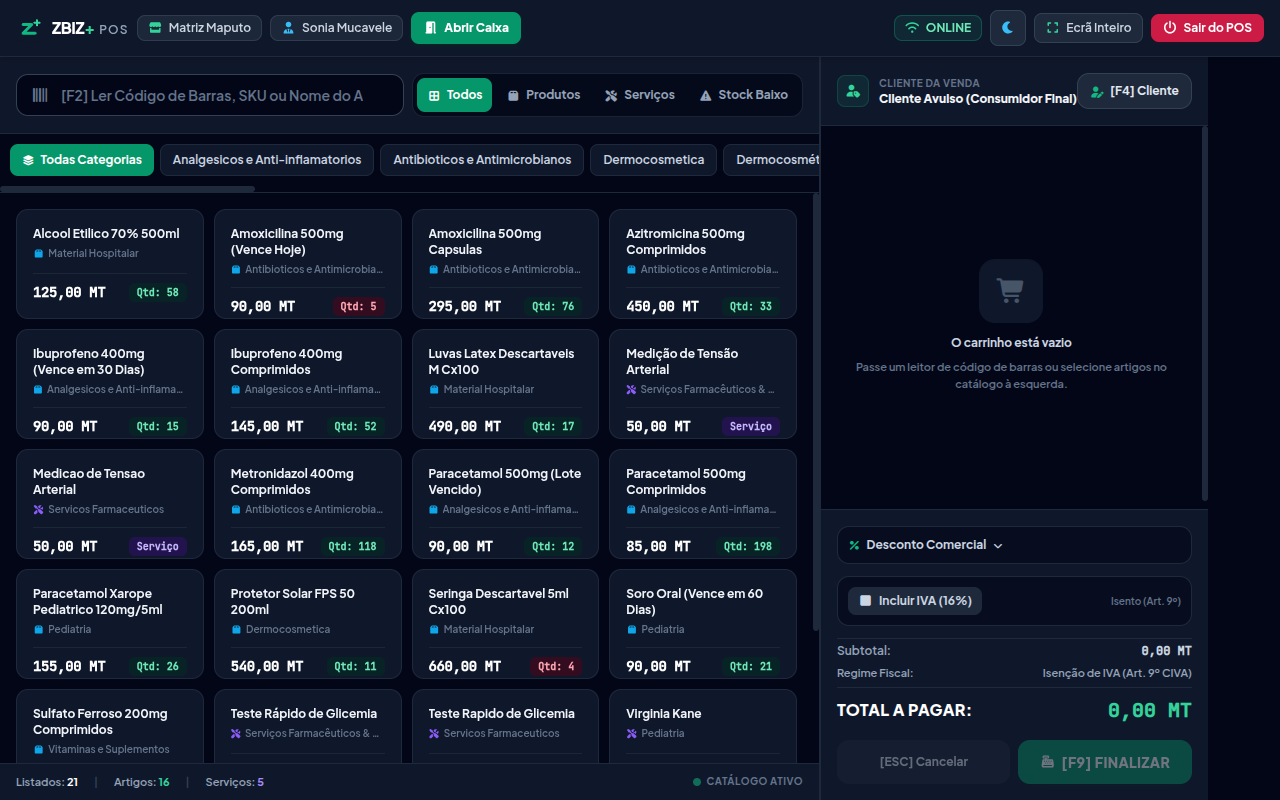
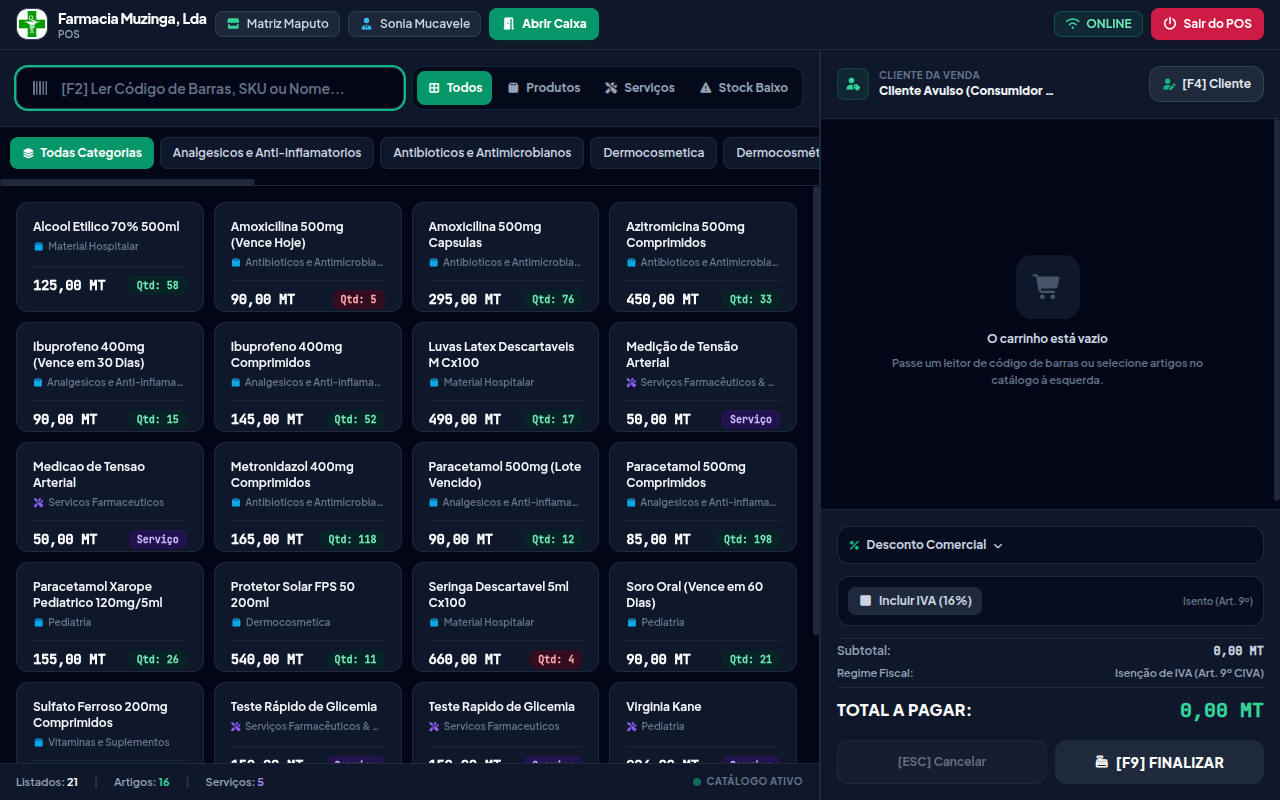
fix(pos): limpar header, integrar fallback de marca do tenant e aperfeicoar ergonomia mobile e carrinho

diff --git a/resources/views/pos/partials/header.blade.php b/resources/views/pos/partials/header.blade.php
@@ -1,12 +1,14 @@
-<header class="bg-slate-900 border-b border-slate-800 text-white px-3 sm:px-4 py-2.5 flex items-center justify-between shadow-md shrink-0 select-none z-30">
+<header class="bg-slate-900 border-b border-slate-800 text-white px-3 sm:px-4 py-2 flex items-center justify-between gap-2 shadow-md shrink-0 select-none z-30">
     {{-- Left: Brand & Operator Context --}}
     <div class="flex items-center gap-2 sm:gap-3 flex-wrap min-w-0">
-        <a href="{{ route('dashboard.index') }}" class="flex items-center gap-2 group transition" title="Ir para o Painel Principal">
-            <x-brand.logo size="sm" variant="icon" />
-            <span class="text-base font-black tracking-tight text-white font-heading">
-                ZBIZ<span class="text-emerald-400">+</span>
-                <span class="text-xs font-semibold text-slate-400 uppercase tracking-widest ml-0.5">POS</span>
-            </span>
+        <a href="{{ route('dashboard.index') }}" class="flex items-center gap-2 group transition shrink-0" title="Ir para o Painel Principal">
+            <x-brand.tenant-logo
+                :src="$theme['logo_url'] ?? current_tenant()?->logo_url"
+                :name="current_tenant()?->name"
+                size="sm"
+                :show-name="true"
+                subtitle="POS"
+            />
         </a>
 
         <div class="hidden md:flex items-center gap-2 text-xs">
@@ -22,7 +24,7 @@
 
         {{-- Turno de Caixa Badge & Ações --}}
         <template x-if="shift">
-            <div class="flex items-center gap-1.5">
+            <div class="flex items-center gap-1.5 shrink-0">
                 <span class="bg-emerald-500/15 text-emerald-300 border border-emerald-500/30 text-xs px-2.5 py-1 rounded-lg font-bold flex items-center gap-1.5 shadow-sm">
                     <span class="w-2 h-2 rounded-full bg-emerald-400 animate-ping"></span>
                     <span>Turno #<span x-text="shift.id"></span> (<span x-text="shift.opened_at"></span>)</span>
@@ -40,14 +42,14 @@
             <button @click.stop="openOpenShiftModal()"
                     type="button"
                     aria-label="Abrir novo turno de caixa"
-                    class="bg-emerald-600 hover:bg-emerald-500 text-white text-xs font-black px-3 py-1.5 rounded-lg transition flex items-center gap-1.5 shadow-md shadow-emerald-950/40 active:scale-95 cursor-pointer min-h-[32px]">
+                    class="bg-emerald-600 hover:bg-emerald-500 text-white text-xs font-black px-3 py-1.5 rounded-lg transition flex items-center gap-1.5 shadow-md shadow-emerald-950/40 active:scale-95 cursor-pointer min-h-[32px] shrink-0">
                 <i class="fa-solid fa-door-open"></i>
                 <span>Abrir Caixa</span>
             </button>
         </template>
     </div>
 
-    {{-- Right: Status Indicators & Utility Controls --}}
+    {{-- Right: Status Indicators & Sair do POS --}}
     <div class="flex items-center gap-2 sm:gap-3 shrink-0">
         {{-- Network Status & Offline Queue Pill --}}
         <div class="flex items-center gap-1.5 text-xs">
@@ -60,38 +62,19 @@
             <template x-if="offlineQueue.length > 0">
                 <button @click="syncOffline()"
                         type="button"
-                        class="bg-amber-500 hover:bg-amber-400 text-slate-950 px-2.5 py-1 rounded-lg font-black text-xs flex items-center gap-1.5 shadow cursor-pointer active:scale-95">
+                        class="bg-amber-500 hover:bg-amber-400 text-slate-950 px-2.5 py-1 rounded-lg font-black text-xs flex items-center gap-1.5 shadow cursor-pointer active:scale-95 min-h-[32px]">
                     <i class="fa-solid fa-rotate" :class="isSyncing ? 'animate-spin' : ''"></i>
                     <span>Sync (<span x-text="offlineQueue.length"></span>)</span>
                 </button>
             </template>
         </div>
 
-        {{-- Theme Switcher (Claro / Escuro) --}}
-        <button type="button"
-                @click="toggleTheme()"
-                aria-label="Alternar tema claro e escuro"
-                class="w-9 h-9 flex items-center justify-center rounded-lg bg-slate-800 hover:bg-slate-700 text-slate-300 hover:text-white border border-slate-700 transition cursor-pointer shadow-sm"
-                title="Alternar Tema Claro / Escuro">
-            <i class="fa-solid text-xs" :class="isDarkMode ? 'fa-sun text-amber-400' : 'fa-moon text-sky-400'"></i>
-        </button>
-
-        {{-- Kiosk / Ecrã Inteiro Helper --}}
-        <button type="button" 
-                @click="toggleFullscreen()" 
-                aria-label="Alternar modo de ecrã inteiro (F11)"
-                class="hidden sm:flex text-xs bg-slate-800 hover:bg-slate-700 text-slate-300 hover:text-white px-2.5 py-1.5 rounded-lg border border-slate-700 transition items-center gap-1.5 shadow-sm cursor-pointer"
-                title="Alternar Ecrã Inteiro / Modo Janela (F11)">
-            <i :class="isFullscreen ? 'fa-solid fa-compress text-amber-400' : 'fa-solid fa-expand text-emerald-400'"></i>
-            <span x-text="isFullscreen ? 'Modo Janela' : 'Ecrã Inteiro'"></span>
-        </button>
-
         {{-- Fechar POS & Voltar --}}
         <a href="{{ route('dashboard.index') }}"
-           class="text-xs bg-rose-600/90 hover:bg-rose-600 text-white font-bold px-3 py-1.5 rounded-lg transition flex items-center gap-1.5 shadow shadow-rose-950/30 active:scale-95"
+           class="text-xs bg-rose-600/90 hover:bg-rose-600 text-white font-bold px-3 py-1.5 rounded-lg transition flex items-center gap-1.5 shadow shadow-rose-950/30 active:scale-95 min-h-[32px]"
            title="Fechar Ponto de Venda e Voltar ao Painel Principal">
             <i class="fa-solid fa-power-off text-xs"></i>
-            <span class="hidden md:inline">Sair do POS</span>
+            <span class="hidden sm:inline">Sair do POS</span>
         </a>
     </div>
 </header>

diff --git a/resources/views/pos/partials/cart.blade.php b/resources/views/pos/partials/cart.blade.php
@@ -1,4 +1,4 @@
-<div class="flex flex-col bg-slate-50 dark:bg-slate-950/70 border-l border-slate-200 dark:border-slate-800 justify-between h-full overflow-hidden select-none">
+<div class="w-full h-full flex flex-col bg-slate-50 dark:bg-slate-950/70 border-l border-slate-200 dark:border-slate-800 justify-between overflow-hidden select-none">
     {{-- Cart Header: Customer Selector --}}
     <div class="p-3 bg-white dark:bg-slate-900 border-b border-slate-200 dark:border-slate-800 flex items-center justify-between shadow-sm shrink-0">
         <div class="flex items-center gap-2.5 min-w-0">
@@ -7,15 +7,15 @@
             </span>
             <div class="min-w-0">
                 <div class="text-[10px] font-bold uppercase tracking-wider text-slate-400 dark:text-slate-500">Cliente da Venda</div>
-                <div class="text-xs font-black text-slate-800 dark:text-slate-100 truncate" x-text="customer ? customer.name : 'Cliente Avulso (Consumidor Final)'"></div>
+                <div class="text-xs font-black text-slate-800 dark:text-slate-100 truncate max-w-[130px] sm:max-w-[180px]" x-text="customer ? customer.name : 'Cliente Avulso (Consumidor Final)'"></div>
             </div>
         </div>
         <button type="button"
                 @click="showCustomerModal = true"
                 aria-label="Alterar cliente da venda atual (F4)"
-                class="text-xs bg-slate-100 hover:bg-slate-200 dark:bg-slate-800 dark:hover:bg-slate-700 text-slate-700 dark:text-slate-200 px-3 py-1.5 rounded-xl font-bold border border-slate-300 dark:border-slate-700 transition flex items-center gap-1.5 shadow-sm cursor-pointer min-h-[36px]">
+                class="shrink-0 text-xs bg-slate-100 hover:bg-slate-200 dark:bg-slate-800 dark:hover:bg-slate-700 text-slate-700 dark:text-slate-200 px-3 py-1.5 rounded-xl font-bold border border-slate-300 dark:border-slate-700 transition flex items-center gap-1.5 shadow-sm cursor-pointer min-h-[36px]">
             <i class="fa-solid fa-user-pen text-[11px] text-emerald-500"></i>
-            <span>[F4] Cliente</span>
+            <span class="whitespace-nowrap">[F4] Cliente</span>
         </button>
     </div>
 
@@ -162,14 +162,14 @@
                     @click="clearCart()"
                     :disabled="cart.length === 0"
                     aria-label="Cancelar venda atual e esvaziar carrinho (ESC)"
-                    class="py-3 bg-slate-100 hover:bg-slate-200 dark:bg-slate-800 dark:hover:bg-slate-700 text-slate-700 dark:text-slate-200 disabled:opacity-40 rounded-xl font-bold text-xs transition active:scale-95 cursor-pointer min-h-[44px]">
+                    class="py-3 bg-slate-200 hover:bg-slate-300 dark:bg-slate-800 dark:hover:bg-slate-700 text-slate-800 dark:text-slate-200 border border-slate-300 dark:border-slate-700 disabled:opacity-40 disabled:cursor-not-allowed rounded-xl font-bold text-xs transition active:scale-95 cursor-pointer min-h-[44px]">
                 [ESC] Cancelar
             </button>
             <button type="button"
                     @click="openCheckoutModal()"
                     :disabled="cart.length === 0"
                     aria-label="Abrir modal para finalizar a venda (F9)"
-                    class="py-3 bg-emerald-600 hover:bg-emerald-500 disabled:opacity-40 text-white rounded-xl font-black text-xs sm:text-sm tracking-wide shadow-lg shadow-emerald-950/20 transition active:scale-95 cursor-pointer min-h-[44px] flex items-center justify-center gap-1.5">
+                    class="py-3 bg-emerald-600 hover:bg-emerald-500 disabled:bg-slate-200 dark:disabled:bg-slate-800 disabled:text-slate-400 dark:disabled:text-slate-500 disabled:shadow-none disabled:cursor-not-allowed text-white rounded-xl font-black text-xs sm:text-sm tracking-wide shadow-lg shadow-emerald-950/20 transition active:scale-95 cursor-pointer min-h-[44px] flex items-center justify-center gap-1.5">
                 <i class="fa-solid fa-cash-register text-xs"></i>
                 <span>[F9] FINALIZAR</span>
             </button>

diff --git a/resources/views/pos/partials/scripts.blade.php b/resources/views/pos/partials/scripts.blade.php
@@ -26,7 +26,6 @@
             isLoading: false,
             isSyncing: false,
             offlineQueue: [],
-            isFullscreen: false,
 
             // Turno de Caixa
             shift: @json($activeShift ? ['id' => $activeShift->id, 'opened_at' => ($activeShift->opened_at ? \Carbon\Carbon::parse($activeShift->opened_at)->format('H:i') : now()->format('H:i')), 'opening_balance' => (float)$activeShift->opening_balance] : null),
@@ -52,19 +51,6 @@
                     (c.phone && c.phone.includes(q)) ||
                     (c.nuit && c.nuit.includes(q))
                 );
-            },
-
-            toggleTheme() {
-                this.isDarkMode = !this.isDarkMode;
-                if (this.isDarkMode) {
-                    document.documentElement.classList.add('dark');
-                    document.documentElement.classList.remove('light');
-                    localStorage.setItem('zb_theme', 'dark');
-                } else {
-                    document.documentElement.classList.remove('dark');
-                    document.documentElement.classList.add('light');
-                    localStorage.setItem('zb_theme', 'light');
-                }
             },
 
             async checkServerReachability(timeoutMs = 2500) {
@@ -109,11 +95,16 @@
                     }
                 });
 
-                // Monitor de estado de ecrã inteiro (Kiosk helper)
-                this.isFullscreen = !!document.fullscreenElement;
-                document.addEventListener('fullscreenchange', () => {
-                    this.isFullscreen = !!document.fullscreenElement;
-                });
+                // Acções externas via URL (ex.: Fechar/Abrir Caixa a partir do Dashboard)
+                const urlParams = new URLSearchParams(window.location.search);
+                const action = urlParams.get('action');
+                if (action === 'close-shift') {
+                    this.$nextTick(() => this.openCloseShiftModal());
+                    window.history.replaceState({}, document.title, window.location.pathname);
+                } else if (action === 'open-shift') {
+                    this.$nextTick(() => this.openOpenShiftModal());
+                    window.history.replaceState({}, document.title, window.location.pathname);
+                }
 
                 window.addEventListener('online', async () => {
                     const reachable = await this.checkServerReachability();
@@ -146,20 +137,6 @@
 
             offlineQueueKey() {
                 return `zbiz_pos_offline_queue_${this.storageScope}`;
-            },
-
-            toggleFullscreen() {
-                if (!document.fullscreenElement) {
-                    document.documentElement.requestFullscreen().then(() => {
-                        this.isFullscreen = true;
-                    }).catch(() => {});
-                } else {
-                    if (document.exitFullscreen) {
-                        document.exitFullscreen().then(() => {
-                            this.isFullscreen = false;
-                        }).catch(() => {});
-                    }
-                }
             },
 
             get subtotal() {

diff --git a/resources/views/components/brand/tenant-logo.blade.php b/resources/views/components/brand/tenant-logo.blade.php
@@ -1,0 +1,59 @@
+{{--
+  Componente: x-brand.tenant-logo
+  Mostra o logótipo registado pela empresa (tenant) e, na sua ausência ou em
+  caso de erro ao carregar a imagem, o símbolo canónico ZBIZ+.
+
+  Props:
+    - src:      URL do logótipo da empresa (null => símbolo ZBIZ+)
+    - name:     Nome da empresa (mostrado ao lado quando show-name = true e existe logo)
+    - size:     'sm' (h-8) | 'md' (h-10, padrão) | 'lg' (h-12)
+    - showName: bool — mostra o nome (empresa ou "ZBIZ+") ao lado do símbolo
+    - subtitle: texto opcional por baixo do nome
+--}}
+@props([
+    'src' => null,
+    'name' => null,
+    'size' => 'md',
+    'showName' => false,
+    'subtitle' => null,
+])
+
+@php
+    $heights = ['sm' => 'h-8 w-8', 'md' => 'h-10 w-10', 'lg' => 'h-12 w-12'];
+    $boxClass = $heights[$size] ?? $heights['md'];
+    $hasLogo = filled($src);
+    $displayName = $hasLogo ? ($name ?: 'ZBIZ+') : null;
+@endphp
+
+<span {{ $attributes->merge(['class' => 'inline-flex items-center gap-2.5 min-w-0 select-none']) }} data-brand="{{ $hasLogo ? 'tenant' : 'zbiz' }}">
+    <span class="relative {{ $boxClass }} shrink-0 flex items-center justify-center rounded-xl overflow-hidden {{ $hasLogo ? 'bg-white border border-slate-200 dark:border-slate-700' : '' }}">
+        @if($hasLogo)
+            <img src="{{ $src }}"
+                 alt="{{ $name ?: 'Logótipo da empresa' }}"
+                 class="w-full h-full object-contain p-0.5"
+                 data-brand-img
+                 onerror="this.style.display='none'; this.parentElement.classList.remove('bg-white','border'); this.nextElementSibling.style.display='block';">
+        @endif
+        <svg viewBox="0 0 48 48" fill="none" class="w-full h-full" role="img" aria-label="ZBIZ+"
+             data-brand-fallback
+             @if($hasLogo) style="display:none" @endif>
+            <rect width="48" height="48" rx="12" fill="#0f172a"/>
+            <path d="M12 18H27L12 33H33" stroke="#10b981" stroke-width="5" stroke-linecap="round" stroke-linejoin="round"/>
+            <path d="M36 10.5V19.5M31.5 15H40.5" stroke="#34d399" stroke-width="3.5" stroke-linecap="round"/>
+        </svg>
+    </span>
+
+    @if($showName)
+        <span class="min-w-0 flex flex-col leading-tight">
+            @if($hasLogo)
+                <span class="text-sm font-black tracking-tight text-slate-900 dark:text-white truncate font-heading">{{ $displayName }}</span>
+            @else
+                <span class="text-sm font-black tracking-tight text-slate-900 dark:text-white font-heading">ZBIZ<span class="text-emerald-500">+</span></span>
+            @endif
+            @if($subtitle)
+                <span class="text-[10px] font-semibold text-slate-500 dark:text-slate-400 truncate">{{ $subtitle }}</span>
+            @endif
+        </span>
+    @endif
+</span>
+

diff --git a/resources/views/partials/sidebar.blade.php b/resources/views/partials/sidebar.blade.php
@@ -12,22 +12,13 @@
             <div class="flex flex-col flex-1 min-h-0 overflow-y-auto">
                 <div class="p-5 border-b border-slate-800/60 flex items-center justify-between">
                     <a href="{{ $isOwnerConsole ? route('owner.tenants.index') : route('dashboard.index') }}" class="flex items-center space-x-3 group min-w-0">
-                        <!-- Brand logo/avatar -->
-                        <div class="w-9 h-9 rounded-xl bg-transparent flex-shrink-0 flex items-center justify-center shadow-md group-hover:scale-105 transition overflow-hidden border border-slate-800/60">
-                            @if(!empty($theme['logo_url']))
-                                <img src="{{ $theme['logo_url'] }}" alt="Logo" class="w-full h-full object-contain p-0.5">
-                            @else
-                                <img src="{{ asset('favicon.png') }}" alt="Z+" class="w-full h-full object-cover">
-                            @endif
-                        </div>
-                        <div class="min-w-0">
-                            <div class="text-sm font-black font-heading tracking-tight text-white leading-none flex items-baseline gap-0.5">
-                                ZBIZ<span class="{{ $theme['text_accent'] }}">+</span>
-                            </div>
-                            <div class="text-[10px] text-slate-400 font-medium truncate max-w-[120px] leading-tight mt-0.5" title="{{ $isOwnerConsole ? 'Owner Console' : ($tenant?->name ?? 'ZBIZ ERP') }}">
-                                {{ $isOwnerConsole ? 'Owner Console' : ($tenant?->name ?? 'SaaS Moçambique') }}
-                            </div>
-                        </div>
+                        <x-brand.tenant-logo
+                            :src="$theme['logo_url'] ?? $tenant?->logo_url"
+                            :name="$isOwnerConsole ? 'Owner Console' : ($tenant?->name ?? 'ZBIZ ERP')"
+                            size="sm"
+                            :show-name="true"
+                            :subtitle="$isOwnerConsole ? 'Owner Console' : ($tenant?->name ?? 'SaaS Moçambique')"
+                        />
                     </a>
 
                     <!-- Sector / Role Pill -->

diff --git a/resources/views/layouts/guest.blade.php b/resources/views/layouts/guest.blade.php
@@ -157,15 +157,14 @@
     <main id="main-content" class="auth-shell my-auto" style="--auth-card-width: @yield('cardWidth', '420px')">
         <div class="bg-white/95 backdrop-blur-xl rounded-[2.5rem] shadow-2xl shadow-slate-950/30 p-8 sm:p-10 border border-white/60 transition-all">
             <div class="text-center mb-8">
-                @if($brandLogo)
-                    <div class="flex justify-center mb-3">
-                        <img src="{{ $brandLogo }}" alt="{{ $brandName }}" class="h-12 w-auto object-contain max-w-[180px]">
-                    </div>
-                @else
-                    <div class="inline-flex items-center justify-center w-14 h-14 rounded-2xl bg-gradient-to-tr from-teal-500 to-sky-600 text-white shadow-lg shadow-sky-500/25 mb-3">
-                        <i class="fa-solid fa-layer-group text-2xl"></i>
-                    </div>
-                @endif
+                <div class="flex justify-center mb-3">
+                    <x-brand.tenant-logo
+                        :src="$brandLogo"
+                        :name="$brandName"
+                        size="lg"
+                        :show-name="false"
+                    />
+                </div>
                 <h1 class="text-2xl font-black text-slate-800 tracking-tight">{{ $brandName }}</h1>
                 <p class="text-xs font-medium text-slate-400 mt-0.5">@yield('subtitle', 'Plataforma de Gestão & Faturação')</p>
             </div>

diff --git a/resources/views/pos/partials/catalog.blade.php b/resources/views/pos/partials/catalog.blade.php
@@ -12,7 +12,7 @@
                        x-model="searchQuery"
                        @input.debounce.250ms="searchProducts()"
                        @keydown.enter="handleBarcodeScan()"
-                       placeholder="[F2] Ler Código de Barras, SKU ou Nome do Artigo..."
+                       placeholder="[F2] Ler Código de Barras, SKU ou Nome..."
                        aria-label="Pesquisar produto por código de barras, SKU ou nome"
                        class="w-full pl-11 pr-10 py-2.5 bg-slate-50 dark:bg-slate-950 text-slate-900 dark:text-white border border-slate-300 dark:border-slate-700 rounded-xl text-xs sm:text-sm font-medium focus:ring-2 focus:ring-emerald-500 focus:border-emerald-500 outline-none shadow-sm transition placeholder:text-slate-400 dark:placeholder:text-slate-500">
                 <button x-show="searchQuery.length > 0"

diff --git a/resources/views/pos/partials/mobile-nav.blade.php b/resources/views/pos/partials/mobile-nav.blade.php
@@ -1,5 +1,5 @@
 {{-- Mobile View Switcher & Floating Checkout Bar (< lg) --}}
-<div class="lg:hidden shrink-0 border-t border-slate-200 dark:border-slate-800 bg-white dark:bg-slate-900 p-2 z-20 shadow-lg">
+<div class="lg:hidden shrink-0 border-t border-slate-200 dark:border-slate-800 bg-white dark:bg-slate-900 p-2 z-20 shadow-lg" style="padding-bottom: max(0.5rem, env(safe-area-inset-bottom, 0.5rem));">
     <div class="grid grid-cols-2 gap-2">
         <button type="button" 
                 @click="mobileTab = 'catalog'"
